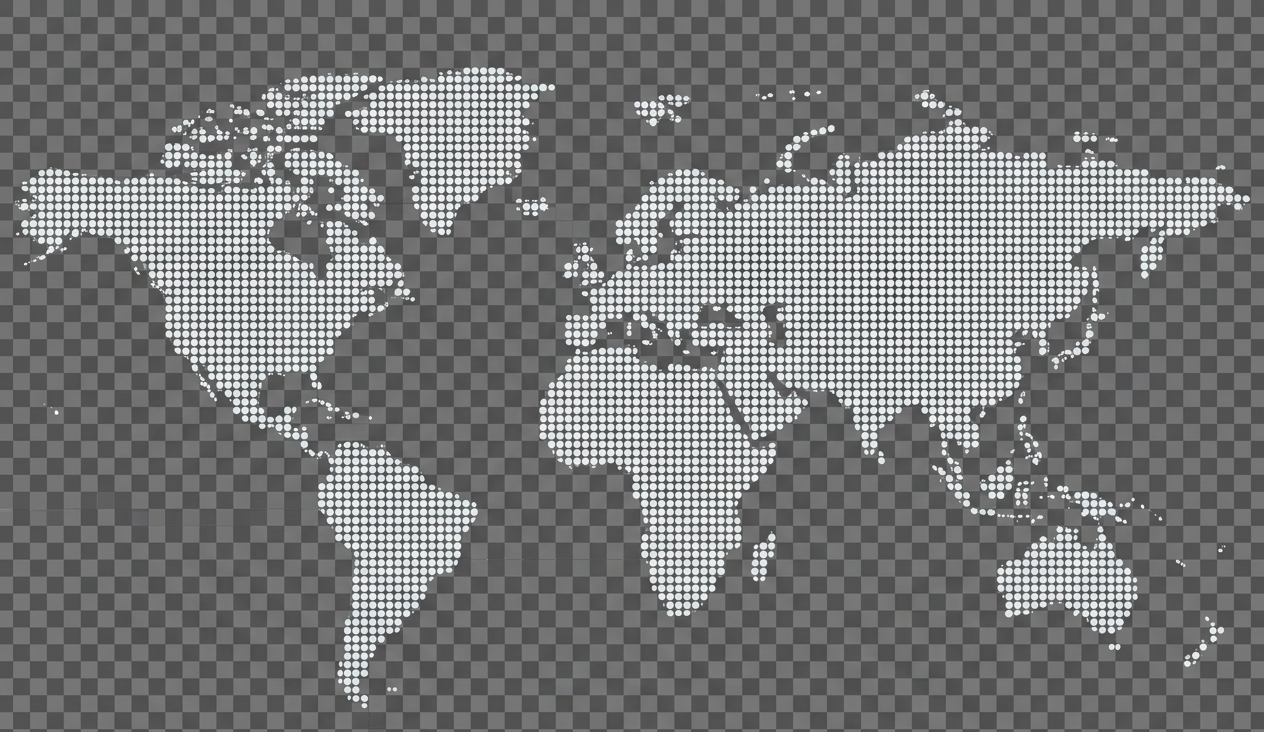
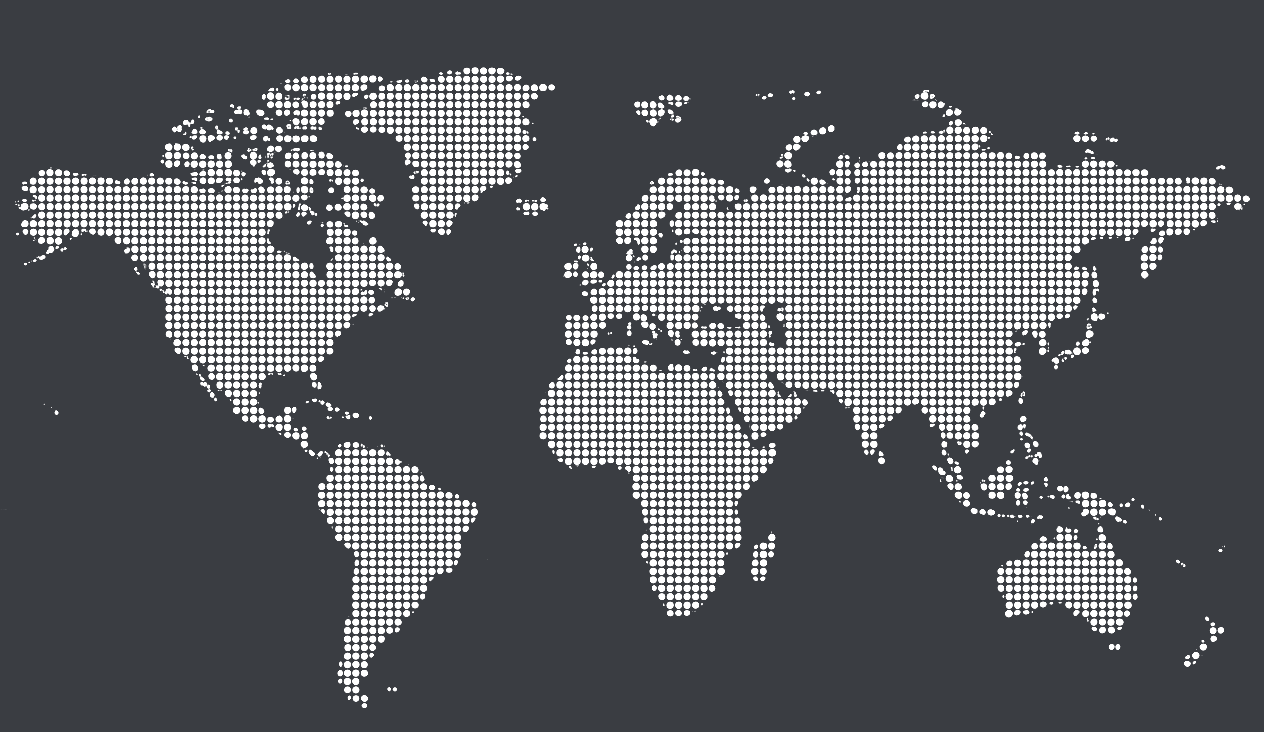
auto-commit for 975a8740-cc2c-46c8-9f45-f64acd846834

diff --git a/frontend/src/components/AnimatedOfficeMap.jsx b/frontend/src/components/AnimatedOfficeMap.jsx
@@ -140,13 +140,13 @@ export const AnimatedOfficeMap = ({ showDestinations = false, fill = false, lege
       )}
       <div
         className={`relative w-full rounded-xl border overflow-hidden ${fill ? 'flex-1' : 'shrink-0'}`}
-        style={{ borderColor: '#e5e7eb', background: '#f4f6f8', ...(fill ? { minHeight: '340px' } : { aspectRatio: '1264 / 732' }) }}
+        style={{ borderColor: '#e5e7eb', background: '#3f4248', ...(fill ? { minHeight: '340px' } : { aspectRatio: '1264 / 732' }) }}
       >
         <img
           src={MAP_URL}
           alt="World map of Peninsula Agritrade offices"
           className={`absolute inset-0 w-full h-full ${fill ? 'object-fill' : 'object-contain'}`}
-          style={{ opacity: 0.85 }}
+          style={{ opacity: 1 }}
         />
         {showFlows && <TradeFlows />}
         {markers.map((o, i) => (

diff --git a/frontend/src/pages/AboutPage.jsx b/frontend/src/pages/AboutPage.jsx
@@ -73,7 +73,7 @@ function GlobalPresence() {
       <h2 className="text-2xl font-semibold mb-3" style={{ color: '#1f2937' }}>Global Presence</h2>
       <div className="grid lg:grid-cols-5 gap-8 items-start mb-12">
         <div className="lg:col-span-3 lg:-mt-4">
-          <AnimatedOfficeMap showDestinations legendInside showFlows title="Office & Trade-Flow Map" />
+          <AnimatedOfficeMap showDestinations legendInside title="Office & Trade-Flow Map" />
         </div>
         <div className="lg:col-span-2">
           <h3 className="text-xs font-bold uppercase mb-3 invisible select-none" aria-hidden="true" style={{ letterSpacing: '0.1em' }}>Office & Trade-Flow Map</h3>